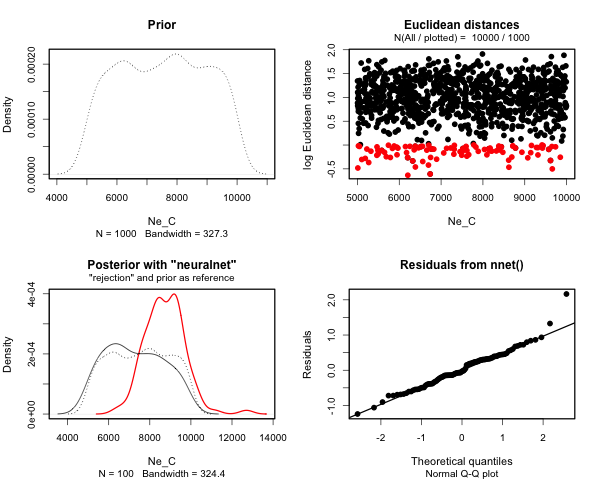
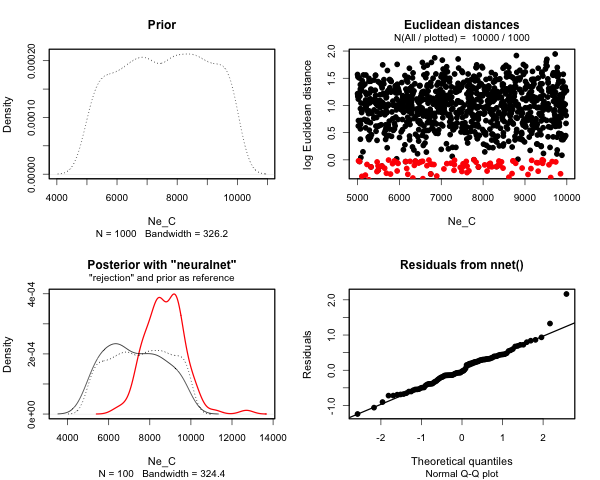
Update README

diff --git a/docs/index.html b/docs/index.html
@@ -68,8 +68,8 @@
 </h1>
 </div>
 <!-- badges: start -->
-<!--[![CRAN-version](https://www.r-pkg.org/badges/version/slendr)](https://cran.r-project.org/package=slendr) [![CRAN-downloads](https://cranlogs.r-pkg.org/badges/grand-total/slendr)](https://cran.r-project.org/package=slendr) -->
-<!-- [![R-CMD-check](https://github.com/bodkan/demografr/workflows/R-CMD-check/badge.svg)](https://github.com/bodkan/demografr/actions) [![Binder](http://mybinder.org/badge.svg)](http://beta.mybinder.org/v2/gh/bodkan/demografr/main?urlpath=rstudio) [![Coverage status](https://codecov.io/gh/bodkan/demografr/branch/main/graph/badge.svg)](https://app.codecov.io/github/bodkan/demografr?branch=main) -->
+
+
 <!-- badges: end -->
 <p>⚠⚠⚠</p>
 <p><strong>Please note that until a peer reviewed publication describing the <em>demografr</em> package is published, the software should be regarded as experimental and potentially unstable.</strong></p>
@@ -332,12 +332,20 @@
 <p>To make developing complete pipelines more efficient, <em>demografr</em> also provides means to test and evaluate their individual components even further. For instance, the function <code><a href="reference/simulate_model.html">simulate_model()</a></code> simulates data from a single simulation run:</p>
 <div class="sourceCode" id="cb14"><pre class="downlit sourceCode r">
 <code class="sourceCode R"><span><span class="va">ts</span> <span class="op">&lt;-</span> <span class="fu"><a href="reference/simulate_model.html">simulate_model</a></span><span class="op">(</span><span class="va">model</span>, <span class="va">priors</span>, sequence_length <span class="op">=</span> <span class="fl">1e6</span>, recombination_rate <span class="op">=</span> <span class="fl">1e-8</span>, mutation_rate <span class="op">=</span> <span class="fl">1e-8</span><span class="op">)</span></span>
+<span><span class="co">#&gt; Warning: The argument `rate` is about to be deprecated because of its confusing</span></span>
+<span><span class="co">#&gt; naming and behavior. If you want to specify the rate of migration per</span></span>
+<span><span class="co">#&gt; unit of time, please use the new argument `migration_rate`. If you want</span></span>
+<span><span class="co">#&gt; to specify the total amount of ancestry which the `to` population should</span></span>
+<span><span class="co">#&gt; received from the `from` population, use the new argument `proportion`</span></span>
+<span><span class="co">#&gt; (this corresponds to the original interpretation of the deprecated `rate`</span></span>
+<span><span class="co">#&gt; argument, and a simple replacement of `rate` with `proportion` will thus</span></span>
+<span><span class="co">#&gt; retain the original meaning of your code all).</span></span>
 <span></span>
 <span><span class="va">ts</span></span>
 <span><span class="co">#&gt; ╔═══════════════════════════╗</span></span>
 <span><span class="co">#&gt; ║TreeSequence               ║</span></span>
 <span><span class="co">#&gt; ╠═══════════════╤═══════════╣</span></span>
-<span><span class="co">#&gt; ║Trees          │      1,670║</span></span>
+<span><span class="co">#&gt; ║Trees          │      1,539║</span></span>
 <span><span class="co">#&gt; ╟───────────────┼───────────╢</span></span>
 <span><span class="co">#&gt; ║Sequence Length│  1,000,000║</span></span>
 <span><span class="co">#&gt; ╟───────────────┼───────────╢</span></span>
@@ -345,26 +353,26 @@
 <span><span class="co">#&gt; ╟───────────────┼───────────╢</span></span>
 <span><span class="co">#&gt; ║Sample Nodes   │        200║</span></span>
 <span><span class="co">#&gt; ╟───────────────┼───────────╢</span></span>
-<span><span class="co">#&gt; ║Total Size     │  467.6 KiB║</span></span>
+<span><span class="co">#&gt; ║Total Size     │  444.2 KiB║</span></span>
 <span><span class="co">#&gt; ╚═══════════════╧═══════════╝</span></span>
 <span><span class="co">#&gt; ╔═══════════╤═════╤═════════╤════════════╗</span></span>
 <span><span class="co">#&gt; ║Table      │Rows │Size     │Has Metadata║</span></span>
 <span><span class="co">#&gt; ╠═══════════╪═════╪═════════╪════════════╣</span></span>
-<span><span class="co">#&gt; ║Edges      │7,284│227.6 KiB│          No║</span></span>
+<span><span class="co">#&gt; ║Edges      │7,027│219.6 KiB│          No║</span></span>
 <span><span class="co">#&gt; ╟───────────┼─────┼─────────┼────────────╢</span></span>
 <span><span class="co">#&gt; ║Individuals│  100│  2.8 KiB│          No║</span></span>
 <span><span class="co">#&gt; ╟───────────┼─────┼─────────┼────────────╢</span></span>
 <span><span class="co">#&gt; ║Migrations │    0│  8 Bytes│          No║</span></span>
 <span><span class="co">#&gt; ╟───────────┼─────┼─────────┼────────────╢</span></span>
-<span><span class="co">#&gt; ║Mutations  │1,942│ 70.2 KiB│          No║</span></span>
+<span><span class="co">#&gt; ║Mutations  │1,699│ 61.4 KiB│          No║</span></span>
 <span><span class="co">#&gt; ╟───────────┼─────┼─────────┼────────────╢</span></span>
-<span><span class="co">#&gt; ║Nodes      │2,122│ 58.0 KiB│          No║</span></span>
+<span><span class="co">#&gt; ║Nodes      │2,167│ 59.3 KiB│          No║</span></span>
 <span><span class="co">#&gt; ╟───────────┼─────┼─────────┼────────────╢</span></span>
 <span><span class="co">#&gt; ║Populations│    4│331 Bytes│         Yes║</span></span>
 <span><span class="co">#&gt; ╟───────────┼─────┼─────────┼────────────╢</span></span>
 <span><span class="co">#&gt; ║Provenances│    2│  3.3 KiB│          No║</span></span>
 <span><span class="co">#&gt; ╟───────────┼─────┼─────────┼────────────╢</span></span>
-<span><span class="co">#&gt; ║Sites      │1,938│ 47.3 KiB│          No║</span></span>
+<span><span class="co">#&gt; ║Sites      │1,696│ 41.4 KiB│          No║</span></span>
 <span><span class="co">#&gt; ╚═══════════╧═════╧═════════╧════════════╝</span></span></code></pre></div>
 <p>With this one simulation data instance <code>ts</code> (in this case, a tree-sequence object of which the above-mentioned function <code><a href="reference/simulate_abc.html">simulate_abc()</a></code> would produce millions, making troubleshooting challenging and slow), we can apply individual summary statistic functions using another helper function <code><a href="reference/summarise_data.html">summarise_data()</a></code>:</p>
 <div class="sourceCode" id="cb15"><pre class="downlit sourceCode r">
@@ -373,27 +381,27 @@
 <span><span class="co">#&gt; # A tibble: 4 × 2</span></span>
 <span><span class="co">#&gt;   set   diversity</span></span>
 <span><span class="co">#&gt;   &lt;chr&gt;     &lt;dbl&gt;</span></span>
-<span><span class="co">#&gt; 1 A     0.0000792</span></span>
-<span><span class="co">#&gt; 2 B     0.0000409</span></span>
-<span><span class="co">#&gt; 3 C     0.000190 </span></span>
-<span><span class="co">#&gt; 4 D     0.000126 </span></span>
+<span><span class="co">#&gt; 1 A     0.0000480</span></span>
+<span><span class="co">#&gt; 2 B     0.0000487</span></span>
+<span><span class="co">#&gt; 3 C     0.000118 </span></span>
+<span><span class="co">#&gt; 4 D     0.0000885</span></span>
 <span><span class="co">#&gt; </span></span>
 <span><span class="co">#&gt; $divergence</span></span>
 <span><span class="co">#&gt; # A tibble: 6 × 3</span></span>
 <span><span class="co">#&gt;   x     y     divergence</span></span>
 <span><span class="co">#&gt;   &lt;chr&gt; &lt;chr&gt;      &lt;dbl&gt;</span></span>
-<span><span class="co">#&gt; 1 A     B       0.000270</span></span>
-<span><span class="co">#&gt; 2 A     C       0.000255</span></span>
-<span><span class="co">#&gt; 3 A     D       0.000268</span></span>
-<span><span class="co">#&gt; 4 B     C       0.000206</span></span>
-<span><span class="co">#&gt; 5 B     D       0.000248</span></span>
-<span><span class="co">#&gt; 6 C     D       0.000211</span></span>
+<span><span class="co">#&gt; 1 A     B       0.000188</span></span>
+<span><span class="co">#&gt; 2 A     C       0.000195</span></span>
+<span><span class="co">#&gt; 3 A     D       0.000191</span></span>
+<span><span class="co">#&gt; 4 B     C       0.000108</span></span>
+<span><span class="co">#&gt; 5 B     D       0.000108</span></span>
+<span><span class="co">#&gt; 6 C     D       0.000115</span></span>
 <span><span class="co">#&gt; </span></span>
 <span><span class="co">#&gt; $f4</span></span>
 <span><span class="co">#&gt; # A tibble: 1 × 5</span></span>
-<span><span class="co">#&gt;   W     X     Y     Z             f4</span></span>
-<span><span class="co">#&gt;   &lt;chr&gt; &lt;chr&gt; &lt;chr&gt; &lt;chr&gt;      &lt;dbl&gt;</span></span>
-<span><span class="co">#&gt; 1 A     B     C     D     -0.0000152</span></span></code></pre></div>
+<span><span class="co">#&gt;   W     X     Y     Z              f4</span></span>
+<span><span class="co">#&gt;   &lt;chr&gt; &lt;chr&gt; &lt;chr&gt; &lt;chr&gt;       &lt;dbl&gt;</span></span>
+<span><span class="co">#&gt; 1 A     B     C     D     -0.00000215</span></span></code></pre></div>
 <p>By comparing the format of this result to the observed data (given in the list <code>observed</code> at the beginning of this page), we can make sure that both simulated and observed summary statistics are mutually compatible, and can be thus directly compared in later steps of the ABC workflow.</p>
 <p><strong>See <a href="https://bodkan.net/demografr/reference/">the reference</a> for a complete overview of the functionality of this package.</strong></p>
 </div>
@@ -428,7 +436,16 @@
 </ul>
 </div>
 
-
+<div class="dev-status">
+<h2 data-toc-skip>Dev status</h2>
+<ul class="list-unstyled">
+<li><a href="https://cran.r-project.org/package=slendr" class="external-link"><img src="https://www.r-pkg.org/badges/version/slendr" alt="CRAN-version"></a></li>
+<li><a href="https://cran.r-project.org/package=slendr" class="external-link"><img src="https://cranlogs.r-pkg.org/badges/grand-total/slendr" alt="CRAN-downloads"></a></li>
+<li><a href="https://github.com/bodkan/demografr/actions" class="external-link"><img src="https://github.com/bodkan/demografr/workflows/R-CMD-check/badge.svg" alt="R-CMD-check"></a></li>
+<li><a href="http://beta.mybinder.org/v2/gh/bodkan/demografr/main?urlpath=rstudio" class="external-link"><img src="http://mybinder.org/badge.svg" alt="Binder"></a></li>
+<li><a href="https://app.codecov.io/github/bodkan/demografr?branch=main" class="external-link"><img src="https://codecov.io/gh/bodkan/demografr/branch/main/graph/badge.svg" alt="Coverage status"></a></li>
+</ul>
+</div>
 
   </aside>
 </div>

diff --git a/README.md b/README.md
@@ -6,9 +6,9 @@
 
 <!-- badges: start -->
 
-<!--[![CRAN-version](https://www.r-pkg.org/badges/version/slendr)](https://cran.r-project.org/package=slendr) [![CRAN-downloads](https://cranlogs.r-pkg.org/badges/grand-total/slendr)](https://cran.r-project.org/package=slendr) -->
+[![CRAN-version](https://www.r-pkg.org/badges/version/slendr)](https://cran.r-project.org/package=slendr) [![CRAN-downloads](https://cranlogs.r-pkg.org/badges/grand-total/slendr)](https://cran.r-project.org/package=slendr)
 
-<!-- [![R-CMD-check](https://github.com/bodkan/demografr/workflows/R-CMD-check/badge.svg)](https://github.com/bodkan/demografr/actions) [![Binder](http://mybinder.org/badge.svg)](http://beta.mybinder.org/v2/gh/bodkan/demografr/main?urlpath=rstudio) [![Coverage status](https://codecov.io/gh/bodkan/demografr/branch/main/graph/badge.svg)](https://app.codecov.io/github/bodkan/demografr?branch=main) -->
+[![R-CMD-check](https://github.com/bodkan/demografr/workflows/R-CMD-check/badge.svg)](https://github.com/bodkan/demografr/actions) [![Binder](http://mybinder.org/badge.svg)](http://beta.mybinder.org/v2/gh/bodkan/demografr/main?urlpath=rstudio) [![Coverage status](https://codecov.io/gh/bodkan/demografr/branch/main/graph/badge.svg)](https://app.codecov.io/github/bodkan/demografr?branch=main)
 
 <!-- badges: end -->
 
@@ -428,12 +428,20 @@ the function `simulate_model()` simulates data from a single simulation run:
 
 ``` r
 ts <- simulate_model(model, priors, sequence_length = 1e6, recombination_rate = 1e-8, mutation_rate = 1e-8)
+#> Warning: The argument `rate` is about to be deprecated because of its confusing
+#> naming and behavior. If you want to specify the rate of migration per
+#> unit of time, please use the new argument `migration_rate`. If you want
+#> to specify the total amount of ancestry which the `to` population should
+#> received from the `from` population, use the new argument `proportion`
+#> (this corresponds to the original interpretation of the deprecated `rate`
+#> argument, and a simple replacement of `rate` with `proportion` will thus
+#> retain the original meaning of your code all).
 
 ts
 #> ╔═══════════════════════════╗
 #> ║TreeSequence               ║
 #> ╠═══════════════╤═══════════╣
-#> ║Trees          │      1,670║
+#> ║Trees          │      1,539║
 #> ╟───────────────┼───────────╢
 #> ║Sequence Length│  1,000,000║
 #> ╟───────────────┼───────────╢
@@ -441,26 +449,26 @@ ts
 #> ╟───────────────┼───────────╢
 #> ║Sample Nodes   │        200║
 #> ╟───────────────┼───────────╢
-#> ║Total Size     │  467.6 KiB║
+#> ║Total Size     │  444.2 KiB║
 #> ╚═══════════════╧═══════════╝
 #> ╔═══════════╤═════╤═════════╤════════════╗
 #> ║Table      │Rows │Size     │Has Metadata║
 #> ╠═══════════╪═════╪═════════╪════════════╣
-#> ║Edges      │7,284│227.6 KiB│          No║
+#> ║Edges      │7,027│219.6 KiB│          No║
 #> ╟───────────┼─────┼─────────┼────────────╢
 #> ║Individuals│  100│  2.8 KiB│          No║
 #> ╟───────────┼─────┼─────────┼────────────╢
 #> ║Migrations │    0│  8 Bytes│          No║
 #> ╟───────────┼─────┼─────────┼────────────╢
-#> ║Mutations  │1,942│ 70.2 KiB│          No║
+#> ║Mutations  │1,699│ 61.4 KiB│          No║
 #> ╟───────────┼─────┼─────────┼────────────╢
-#> ║Nodes      │2,122│ 58.0 KiB│          No║
+#> ║Nodes      │2,167│ 59.3 KiB│          No║
 #> ╟───────────┼─────┼─────────┼────────────╢
 #> ║Populations│    4│331 Bytes│         Yes║
 #> ╟───────────┼─────┼─────────┼────────────╢
 #> ║Provenances│    2│  3.3 KiB│          No║
 #> ╟───────────┼─────┼─────────┼────────────╢
-#> ║Sites      │1,938│ 47.3 KiB│          No║
+#> ║Sites      │1,696│ 41.4 KiB│          No║
 #> ╚═══════════╧═════╧═════════╧════════════╝
 ```
 
@@ -478,27 +486,27 @@ summarise_data(ts, functions)
 #> # A tibble: 4 × 2
 #>   set   diversity
 #>   <chr>     <dbl>
-#> 1 A     0.0000792
-#> 2 B     0.0000409
-#> 3 C     0.000190 
-#> 4 D     0.000126 
+#> 1 A     0.0000480
+#> 2 B     0.0000487
+#> 3 C     0.000118 
+#> 4 D     0.0000885
 #> 
 #> $divergence
 #> # A tibble: 6 × 3
 #>   x     y     divergence
 #>   <chr> <chr>      <dbl>
-#> 1 A     B       0.000270
-#> 2 A     C       0.000255
-#> 3 A     D       0.000268
-#> 4 B     C       0.000206
-#> 5 B     D       0.000248
-#> 6 C     D       0.000211
+#> 1 A     B       0.000188
+#> 2 A     C       0.000195
+#> 3 A     D       0.000191
+#> 4 B     C       0.000108
+#> 5 B     D       0.000108
+#> 6 C     D       0.000115
 #> 
 #> $f4
 #> # A tibble: 1 × 5
-#>   W     X     Y     Z             f4
-#>   <chr> <chr> <chr> <chr>      <dbl>
-#> 1 A     B     C     D     -0.0000152
+#>   W     X     Y     Z              f4
+#>   <chr> <chr> <chr> <chr>       <dbl>
+#> 1 A     B     C     D     -0.00000215
 ```
 
 By comparing the format of this result to the observed data (given in the
